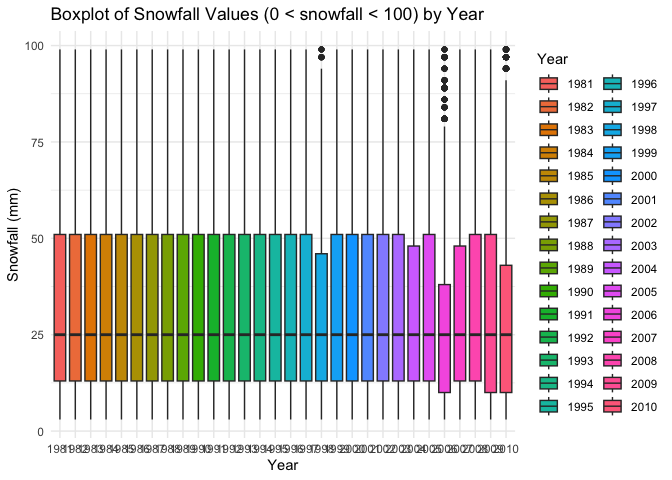
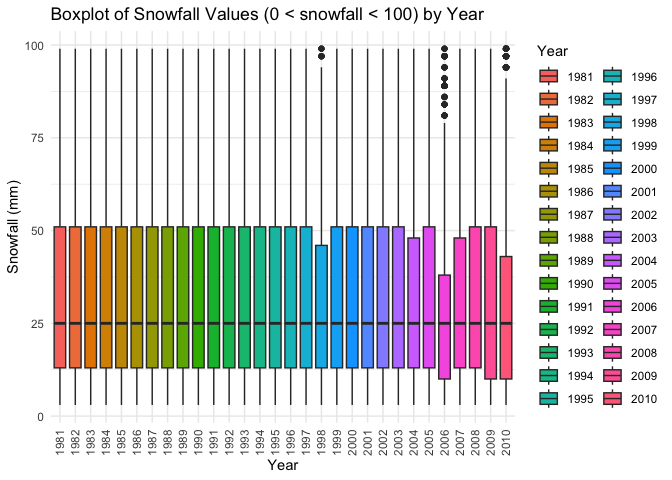
Final edits to homework; submit

diff --git a/p8105_fp2513_hw3.md b/p8105_fp2513_hw3.md
@@ -185,6 +185,26 @@ temperature dis
 Need to pivot longer tmax and tmin into a single column called
 temperature and a second column called temp_measure either tmax or tmin
 
+``` r
+dated_ny_noaa %>% 
+  filter(!is.na(tmin) & !is.na(tmax)) %>% 
+  pivot_longer(
+    cols = c("tmin", "tmax"),
+    names_to = "temp_measure",
+    values_to = "temperature"
+  ) %>% 
+  group_by(id, temp_measure) %>% 
+  summarise(avg_temperature = mean(temperature, na.rm = TRUE), .groups = 'drop') %>% 
+  ggplot(aes(x = id, y = avg_temperature, fill = temp_measure)) +
+  geom_bar(stat = "identity", position = "dodge") + 
+  labs(title = "Average Temperature by Station ID and Measure",
+       x = "Station ID",
+       y = "Average Temperature") +
+  theme_minimal()
+```
+
+![](p8105_fp2513_hw3_files/figure-gfm/unnamed-chunk-7-1.png)<!-- -->
+
 **(ii) make a plot showing the distribution of snowfall values greater
 than 0 and less than 100 separately by year.**
 
@@ -197,7 +217,8 @@ dated_ny_noaa %>%
        x = "Year",
        y = "Snowfall (mm)",
        fill = "Year") +
-  theme_minimal()
+  theme_minimal() + 
+  theme(axis.text.x = element_text(angle = 90, vjust = 0.5, hjust = 1))
 ```
 
 ![](p8105_fp2513_hw3_files/figure-gfm/unnamed-chunk-8-1.png)<!-- -->
